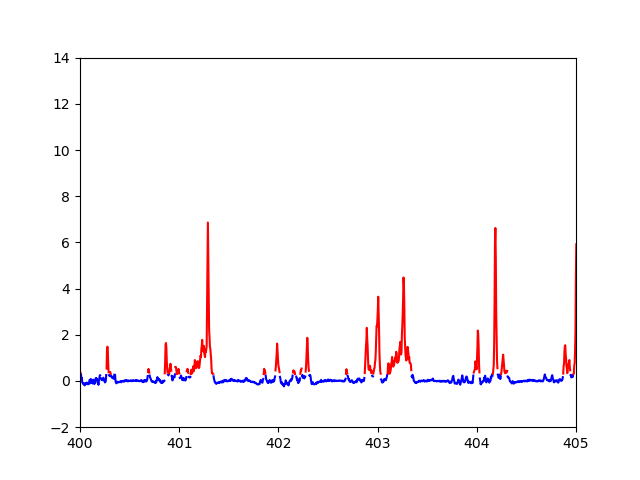
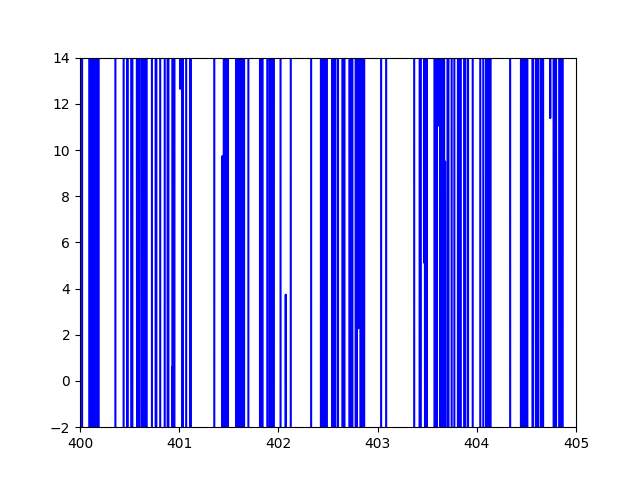
Version 1

diff --git a/test.py b/test.py
@@ -12,7 +12,7 @@ plt.show()
 plt.clf()
 
 plt.plot(df["m/z"],df["A_APCKRAS"], color='blue', label='tissue A-APCKRAS')
-plt.xlim((400,420))
+plt.xlim((300,320))
 plt.show()
 plt.clf()
 
@@ -20,15 +20,25 @@ plt.clf()
 print('standard deviation for tissue A', np.std(df["A_APCKRAS"]))
 print('standard deviation for tissue D',np.std(df["D_APCKRAS"]))
 
-treshold = np.std(df["A_APCKRAS"])/20
+treshold = np.std(df["A_APCKRAS"])
 
 plt.plot(df["m/z"],df["A_APCKRAS"].where(df["A_APCKRAS"]<treshold), color='blue', label='noise A-APCKRAS')
 plt.plot(df["m/z"],df["A_APCKRAS"].where(df["A_APCKRAS"]>=treshold), color='red', label='signal A-APCKRAS')
 
 # plt.plot(df["m/z"],df["D_APCKRAS"].where(df["D_APCKRAS"]<treshold), color='blue', label='tissue A-APCKRAS')
 # plt.plot(df["m/z"],df["D_APCKRAS"].where(df["D_APCKRAS"]>=treshold), color='red', label='tissue A-APCKRAS')
-plt.xlim((400,405))
-plt.ylim((-2,14))
-#plt.show()
-plt.savefig("C:/Users/ag12/PycharmProjects/NPL-Academy/outputs/test.png")
+plt.xlim((300,320))
+#plt.ylim((-2,14))
+plt.show()
+#plt.savefig("C:/Users/ag12/PycharmProjects/NPL-Academy/outputs/test.png")
+plt.clf()
 
+
+plt.plot(df["m/z"],df["A_APCKRAS"].where(df["A_APCKRAS"]<treshold), color='blue', label='noise A-APCKRAS')
+plt.plot(df["m/z"],df["A_APCKRAS"].where(df["A_APCKRAS"]>=treshold), color='red', label='signal A-APCKRAS')
+
+# plt.plot(df["m/z"],df["D_APCKRAS"].where(df["D_APCKRAS"]<treshold), color='blue', label='tissue A-APCKRAS')
+# plt.plot(df["m/z"],df["D_APCKRAS"].where(df["D_APCKRAS"]>=treshold), color='red', label='tissue A-APCKRAS')
+plt.xlim((310,320))
+plt.ylim((-1E5,6E5))
+plt.show()
